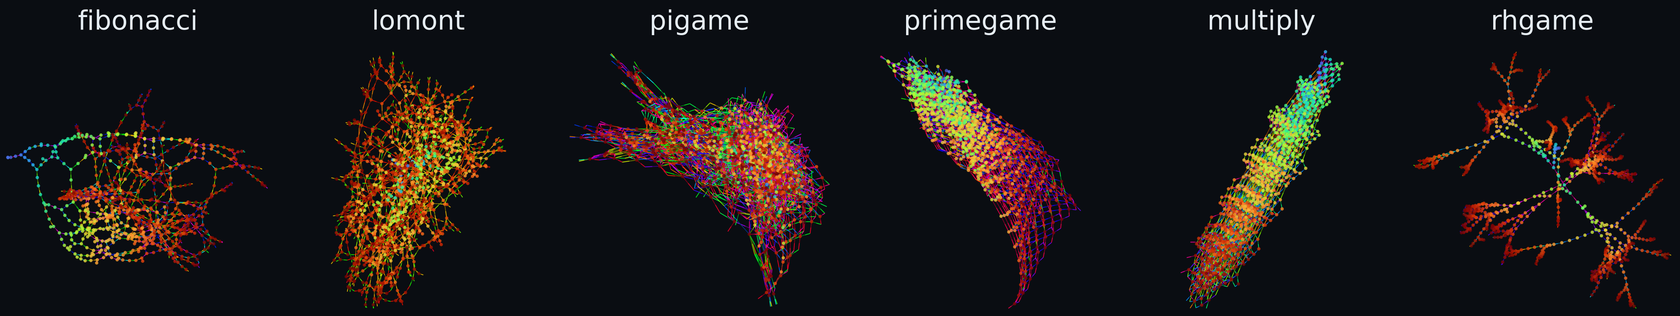
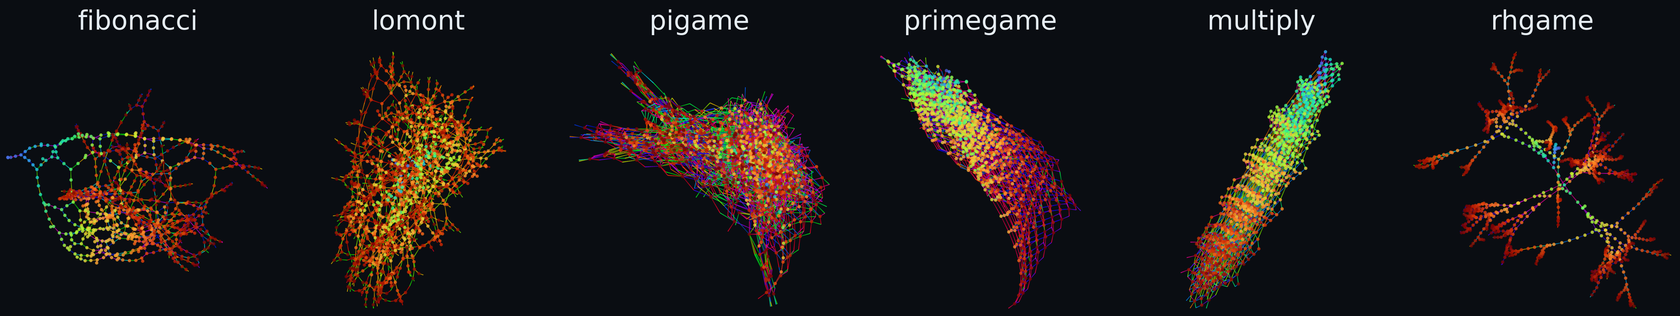
plot: real smooth edge fade + baked opacity in draw_graph; README hero alt-text/caption
- draw_graph: each edge is now a vectorised multi-segment brightness fade (dim source
  -> bright head) instead of a 2-segment step; edge/node alpha are baked into the RGBA
  so Style.edge_alpha/node_alpha apply exactly (no ambiguous alpha= override).
- README: descriptive alt text + visible caption naming the six programs and what
  vertices/edges/colour mean.

diff --git a/fractran/plot.py b/fractran/plot.py
@@ -410,35 +410,41 @@ def graph_layout(nodes, efrac, seed=1, iterations=80):
                             k=1.4 / max(1, len(nodes) ** 0.5))
 
 
-def draw_graph(ax, nodes, efrac, pos, values, nfrac, style=STYLE):
-    """Shared renderer: fraction-coloured directed edges (dim tail -> bright head)
-    and nodes coloured by `values` through the style's node colormap."""
+def draw_graph(ax, nodes, efrac, pos, values, nfrac, style=STYLE, fade_steps=8):
+    """Shared renderer. Each directed edge is drawn in its fraction's colour as a
+    smooth brightness fade from a dim tail (source) to a bright head (target), so
+    direction reads without arrowheads; nodes are coloured by `values` through the
+    node colormap. Opacity is baked into the RGBA (edge/node alpha channels) so
+    ``Style.edge_alpha`` / ``Style.node_alpha`` apply exactly."""
     import numpy as np
     from matplotlib.collections import LineCollection
 
     nodes = list(nodes)
     ax.set_facecolor(_facecolor(style))
-    ecmap = plt.get_cmap(style.edge_cmap)
-    segs, cols = [], []
-    for (a, b), fi in efrac.items():
-        if a in pos and b in pos:
-            pa, pb = np.array(pos[a]), np.array(pos[b])
-            pm = (pa + pb) / 2
-            base = np.array(ecmap((fi % max(1, nfrac) + 0.5) / max(1, nfrac)))
-            tail = base.copy()
-            tail[:3] *= style.tail_dim
-            segs += [[pa, pm], [pm, pb]]
-            cols += [tail, base]
-    ax.add_collection(LineCollection(segs, colors=cols, linewidths=style.edge_lw,
-                                     alpha=style.edge_alpha, zorder=1))
+
+    ekeys = [(a, b, fi) for (a, b), fi in efrac.items() if a in pos and b in pos]
+    if ekeys:
+        A = np.array([pos[a] for a, b, fi in ekeys])                         # (E,2) sources
+        B = np.array([pos[b] for a, b, fi in ekeys])                         # (E,2) targets
+        base = plt.get_cmap(style.edge_cmap)(
+            [(fi % max(1, nfrac) + 0.5) / max(1, nfrac) for a, b, fi in ekeys])  # (E,4)
+        t = np.linspace(0.0, 1.0, fade_steps)
+        pts = A[:, None, :] * (1 - t)[None, :, None] + B[:, None, :] * t[None, :, None]  # (E,S,2)
+        segs = np.stack([pts[:, :-1], pts[:, 1:]], axis=2).reshape(-1, 2, 2)
+        bright = style.tail_dim + (1 - style.tail_dim) * ((t[:-1] + t[1:]) / 2)  # per sub-segment
+        cols = np.repeat(base[:, None, :], fade_steps - 1, axis=1)           # (E,S-1,4)
+        cols[..., :3] *= bright[None, :, None]
+        cols[..., 3] = style.edge_alpha
+        ax.add_collection(LineCollection(segs, colors=cols.reshape(-1, 4),
+                                         linewidths=style.edge_lw, zorder=1))
+
     v = np.array(values, float)
-    if v.max() > v.min():
-        vn = style.node_floor + (1 - style.node_floor) * (v - v.min()) / (v.max() - v.min())
-    else:
-        vn = np.full(len(v), 0.6)
+    vn = (style.node_floor + (1 - style.node_floor) * (v - v.min()) / (v.max() - v.min())
+          if v.size and v.max() > v.min() else np.full(len(nodes), 0.6))
+    ncol = plt.get_cmap(style.node_cmap)(vn)
+    ncol[:, 3] = style.node_alpha                                            # bake node opacity
     ax.scatter([pos[k][0] for k in nodes], [pos[k][1] for k in nodes],
-               c=plt.get_cmap(style.node_cmap)(vn), s=style.node_size, alpha=style.node_alpha,
-               edgecolors=_facecolor(style), linewidths=style.node_edge_lw, zorder=3)
+               c=ncol, s=style.node_size, edgecolors="none", zorder=3)
     ax.set_axis_off()
     ax.margins(0.03)
 

diff --git a/README.md b/README.md
@@ -1,11 +1,15 @@
 # fractran
 
-![Multiway graphs of six FRACTRAN programs, coloured by depth](assets/hero.png)
+![Depth-coloured multiway graphs of six FRACTRAN programs — fibonacci, the Lomont self-interpreter, PIGAME, PRIMEGAME, Conway's multiplier, and RHGAME. Each vertex is an integer state, each edge a fraction firing, and colour is BFS depth from the start.](assets/hero.png)
+
+<sub>*Multiway graphs of six FRACTRAN programs (left → right: `fibonacci`, the Lomont
+self-interpreter, `PIGAME`, `PRIMEGAME`, Conway's `MULTIPLY`, `RHGAME`). Every integer
+state is a vertex; every applicable fraction is an edge (faded dim→bright along its
+direction); colour is BFS depth from the start.*</sub>
 
 A complete FRACTRAN toolchain — interpreter, compiler, loop accelerator, native
 C++/GMP core, a self-interpreter, and a pile of runnable I/O programs — built up
-from Conway's "just multiply fractions." The banner: the multiway graphs of six
-programs (fire every applicable fraction at every state), coloured by BFS depth.
+from Conway's "just multiply fractions."
 
 ## What is FRACTRAN?
 